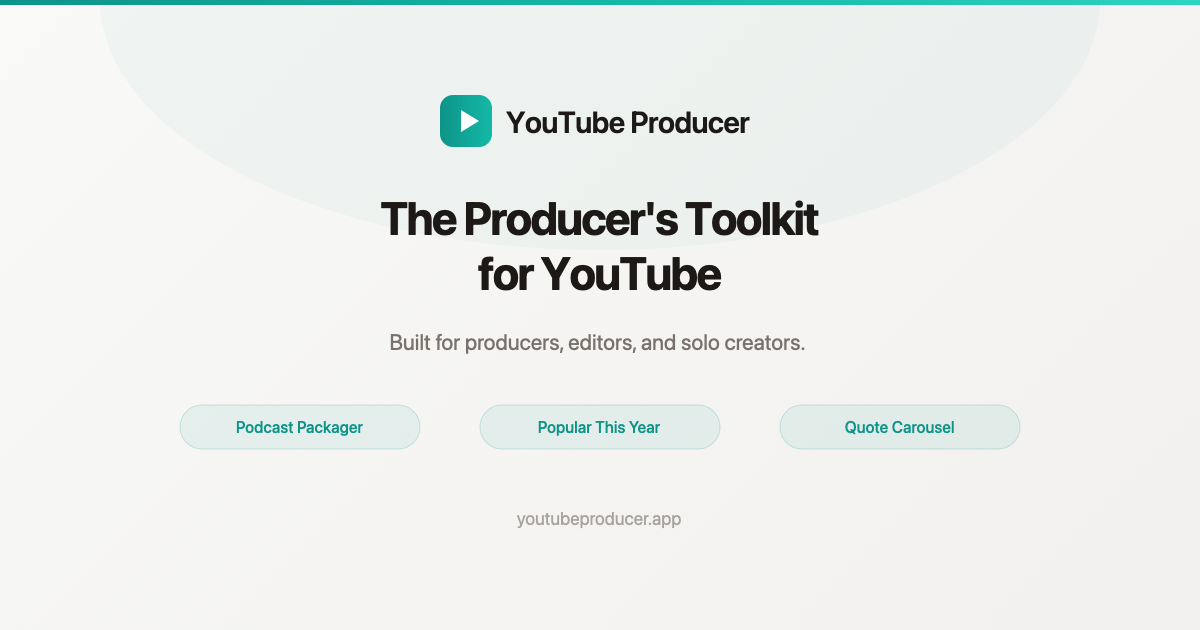
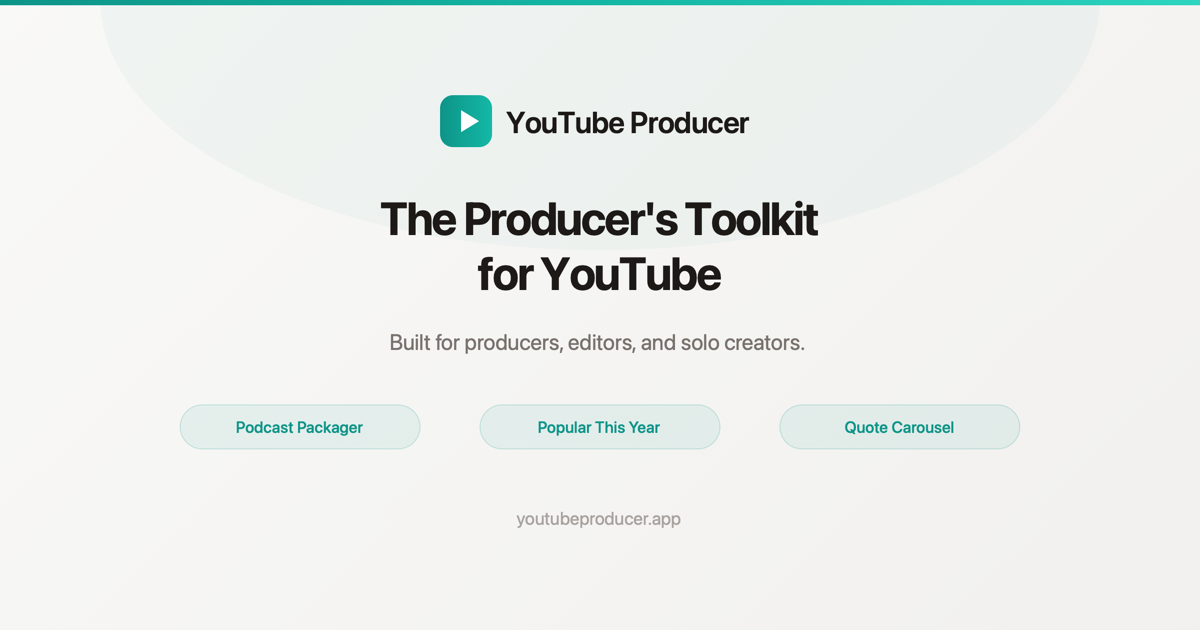
Fix OG: longer description (100+ chars) and sharper image (2x render)

diff --git a/index.html b/index.html
@@ -6,14 +6,14 @@
   <title>YouTube Producer — The Producer's Toolkit for YouTube</title>
   <meta name="description" content="The producer's toolkit for YouTube.">
   <meta property="og:title" content="YouTube Producer — The Producer's Toolkit for YouTube">
-  <meta property="og:description" content="The producer's toolkit for YouTube. Built for producers, editors, and solo creators.">
+  <meta property="og:description" content="The producer's toolkit for YouTube. Built for producers, editors, and solo creators. Title, package, and promote your videos — faster.">
   <meta property="og:url" content="https://youtubeproducer.app">
   <meta property="og:image" content="https://youtubeproducer.app/og-image.png">
   <meta property="og:type" content="website">
   <meta name="twitter:card" content="summary_large_image">
   <meta name="twitter:image" content="https://youtubeproducer.app/og-image.png">
   <meta name="twitter:title" content="YouTube Producer — The Producer's Toolkit for YouTube">
-  <meta name="twitter:description" content="The producer's toolkit for YouTube. Built for producers, editors, and solo creators.">
+  <meta name="twitter:description" content="The producer's toolkit for YouTube. Built for producers, editors, and solo creators. Title, package, and promote your videos — faster.">
   <link rel="icon" href="/favicon.ico" sizes="32x32">
   <link rel="icon" href="/favicon.svg" type="image/svg+xml">
   <link rel="apple-touch-icon" href="/apple-touch-icon.png">
